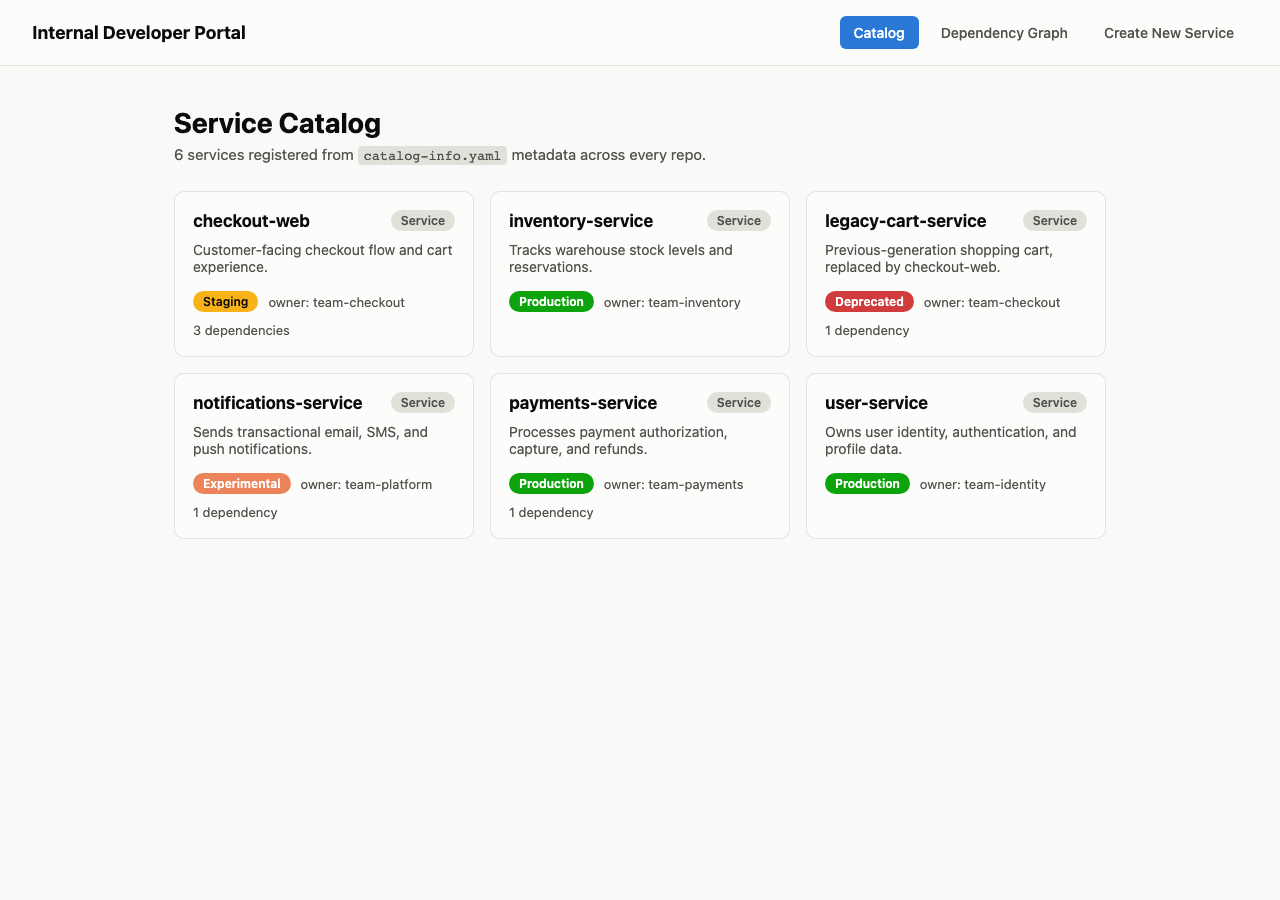
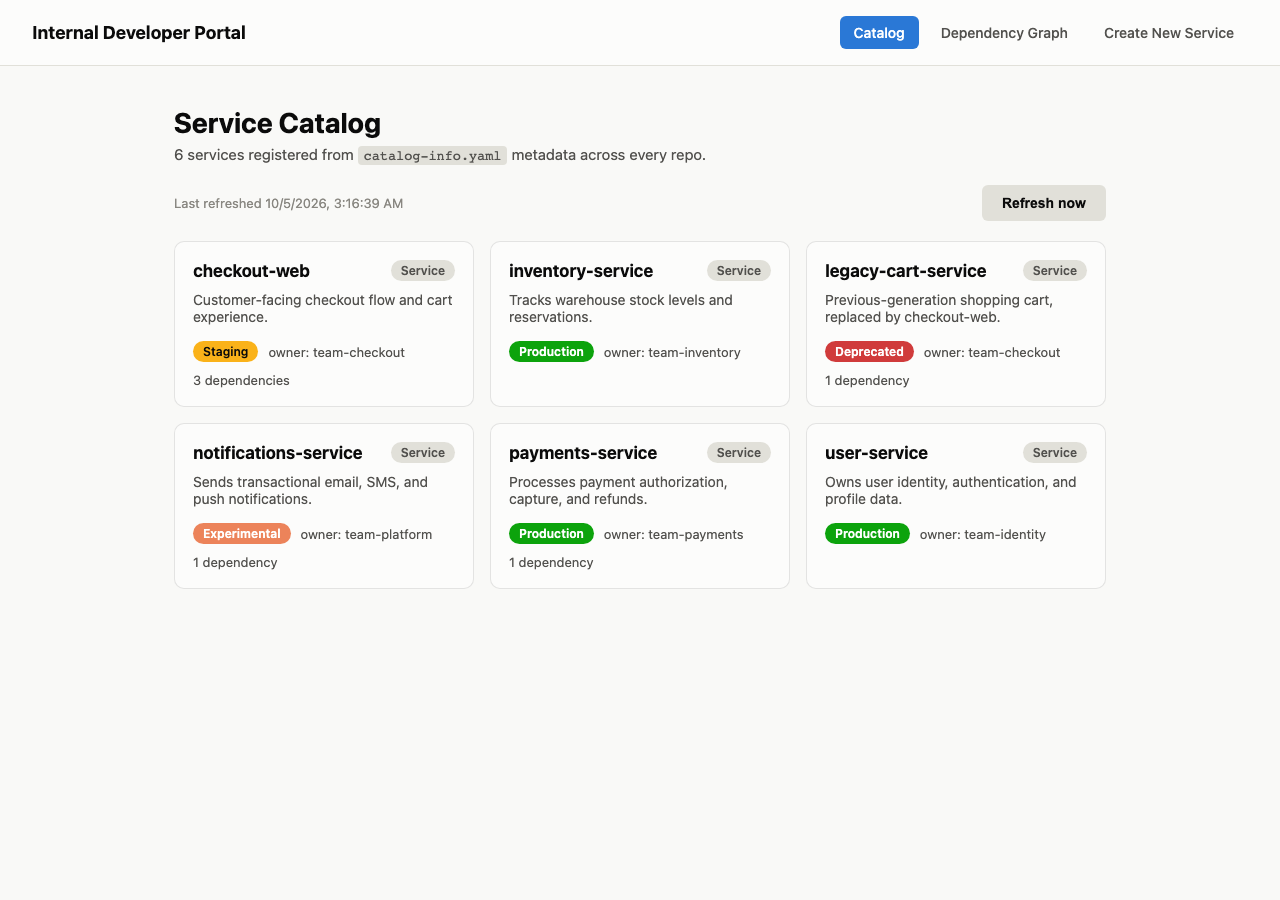
docs: update README and screenshots for the persisted catalog store
Recaptures the catalog list screenshots to show the new refreshed-timestamp
and refresh-button chrome, adds a screenshot of the validation-error banner,
and documents the new CATALOG_REFRESH_INTERVAL_MS / CATALOG_GITHUB_REPOS /
GITHUB_TOKEN environment variables.

Changed region(s): [[0.125, 0.1867, 0.875, 0.6533]]

diff --git a/README.md b/README.md
@@ -40,24 +40,37 @@ catalog immediately.
 
 ![Service created successfully](docs/screenshots/06-create-success.png)
 
-**Catalog after self-service creation** — the new service is live, no restart,
-no manual registration step.
+**Catalog after self-service creation** — the new service is live immediately:
+the create flow triggers an explicit catalog refresh, no restart, no manual
+registration step.
 
 ![Catalog showing the newly created service](docs/screenshots/07-catalog-list-updated.png)
+
+**Catalog validation errors** — a malformed `catalog-info.yaml` is skipped,
+not allowed to crash the catalog, and surfaced in a banner instead of silently
+disappearing.
+
+![Catalog list showing a validation error banner](docs/screenshots/08-catalog-validation-errors.png)
 
 ## Architecture
 
 An npm-workspaces monorepo with two TypeScript packages:
 
 - **`@idp/core`** — the domain layer: a Zod schema for `catalog-info.yaml`, a
-  catalog loader that scans directories and validates every file, a
-  dependency-graph builder with cycle detection, and a template engine that
-  renders the golden-path scaffold.
+  `CatalogSource` abstraction (local directories and a GitHub-repos source,
+  both implementing the same interface) feeding a validating catalog loader,
+  a SQLite-backed `CatalogStore` that persists the last-loaded snapshot, a
+  scheduler that refreshes the store on an interval, a dependency-graph
+  builder with cycle detection, and a template engine that renders the
+  golden-path scaffold.
 - **`@idp/web`** — a server-rendered Express app (catalog list, service
-  detail, dependency graph, create flow) built on top of `@idp/core`.
+  detail, dependency graph, create flow, and an `/admin/refresh` trigger)
+  built on top of `@idp/core`. Every page read is a SQLite read, not a
+  re-fetch — the catalog only changes on an explicit refresh (scheduled,
+  button-triggered, or after the create flow scaffolds a new service).
 
-Full details, including the request/data flow and why the catalog reloads
-from disk on every request, are in [PROGRESS.md](PROGRESS.md).
+Full details, including the source/store abstraction boundary, are in
+[PROGRESS.md](PROGRESS.md).
 
 ## Getting started
 
@@ -67,7 +80,19 @@ npx tsc --build packages/core   # @idp/web imports the compiled @idp/core
 npm run dev --workspace=@idp/web
 ```
 
-Then open `http://localhost:3000`.
+Then open `http://localhost:3000`. On startup the server does an initial
+catalog refresh and then re-refreshes every 5 minutes by default; both
+local-directory and (if configured) GitHub sources are read, validated, and
+persisted to a `catalog.db` SQLite file at the repo root.
+
+Optional environment variables:
+
+```sh
+PORT=3000                              # server port
+CATALOG_REFRESH_INTERVAL_MS=300000     # scheduled refresh interval; 0 disables it
+CATALOG_GITHUB_REPOS=acme/widgets,acme/sprockets@main   # owner/repo[@ref], comma-separated
+GITHUB_TOKEN=ghp_...                   # only needed for private repos / higher rate limits
+```
 
 ## Running tests
 
@@ -75,17 +100,20 @@ Then open `http://localhost:3000`.
 npm test
 ```
 
-Runs the full suite for both packages: catalog/schema/graph/template unit
-tests in `@idp/core`, and route-level integration tests (including the full
-create-service flow) in `@idp/web`.
+Runs the full suite for both packages: catalog/schema/source/store/scheduler/
+graph/template unit tests in `@idp/core`, and route-level integration tests
+(including the full create-service flow and the explicit refresh route) in
+`@idp/web`. The GitHub source is tested with an injected fetch function, so
+the suite never makes a real network call.
 
 ## Repository layout
 
 ```
-packages/core/            catalog schema, loader, dependency graph, template engine
-packages/web/             Express app: catalog UI, service detail, graph, create flow
+packages/core/            catalog schema, sources, SQLite store, scheduler, dependency graph, template engine
+packages/web/             Express app: catalog UI, service detail, graph, create flow, admin refresh
 catalog/examples/         example catalog-info.yaml fixtures (stand-ins for "other repos")
 templates/golden-path-service/  the scaffold the self-service flow renders
 generated/                where self-service "create new service" writes new services
 docs/screenshots/         screenshots used in this README
+catalog.db                 (gitignored) persisted catalog snapshot, created on first run
 ```
